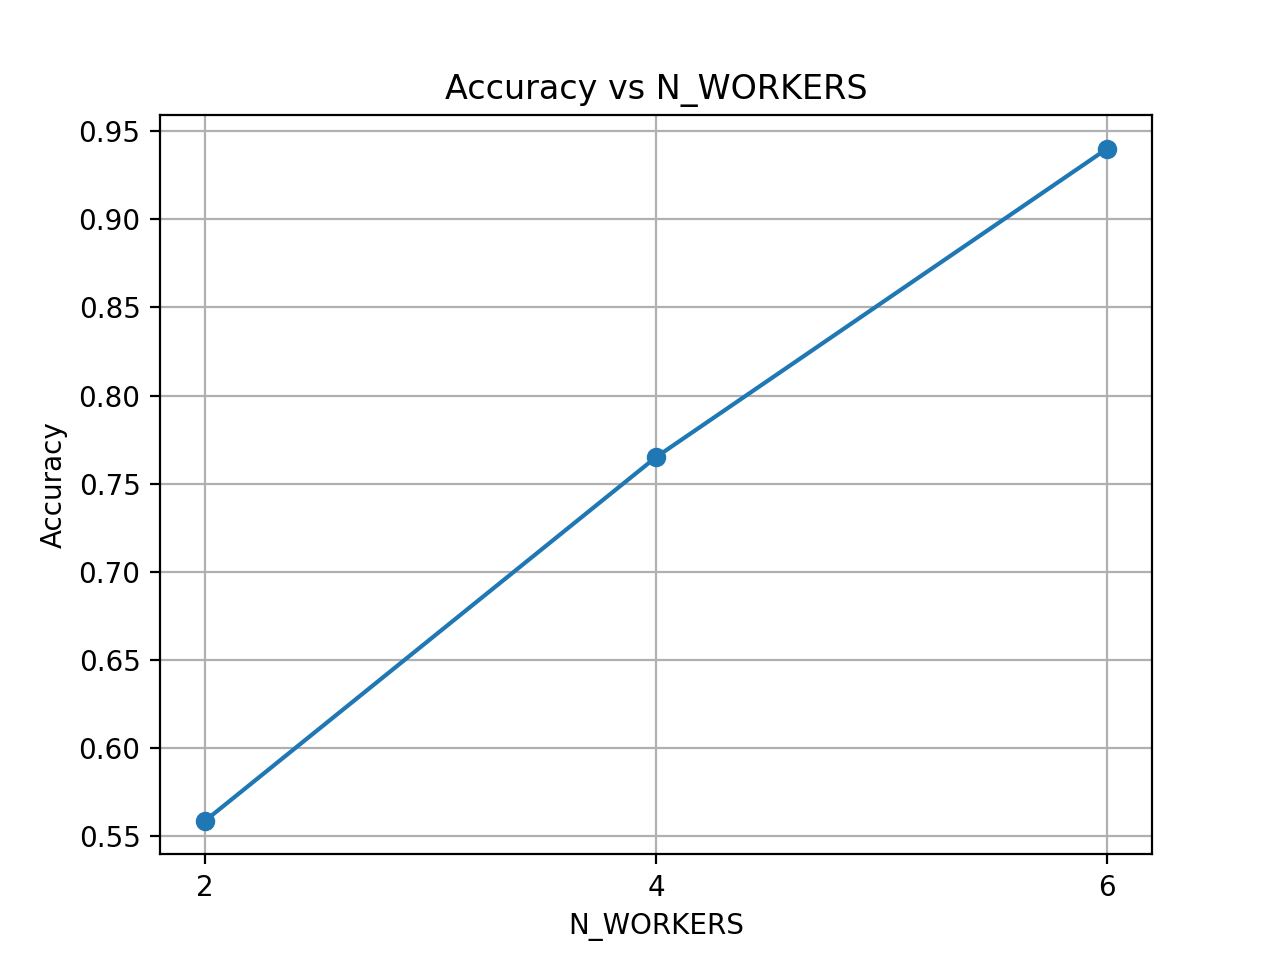
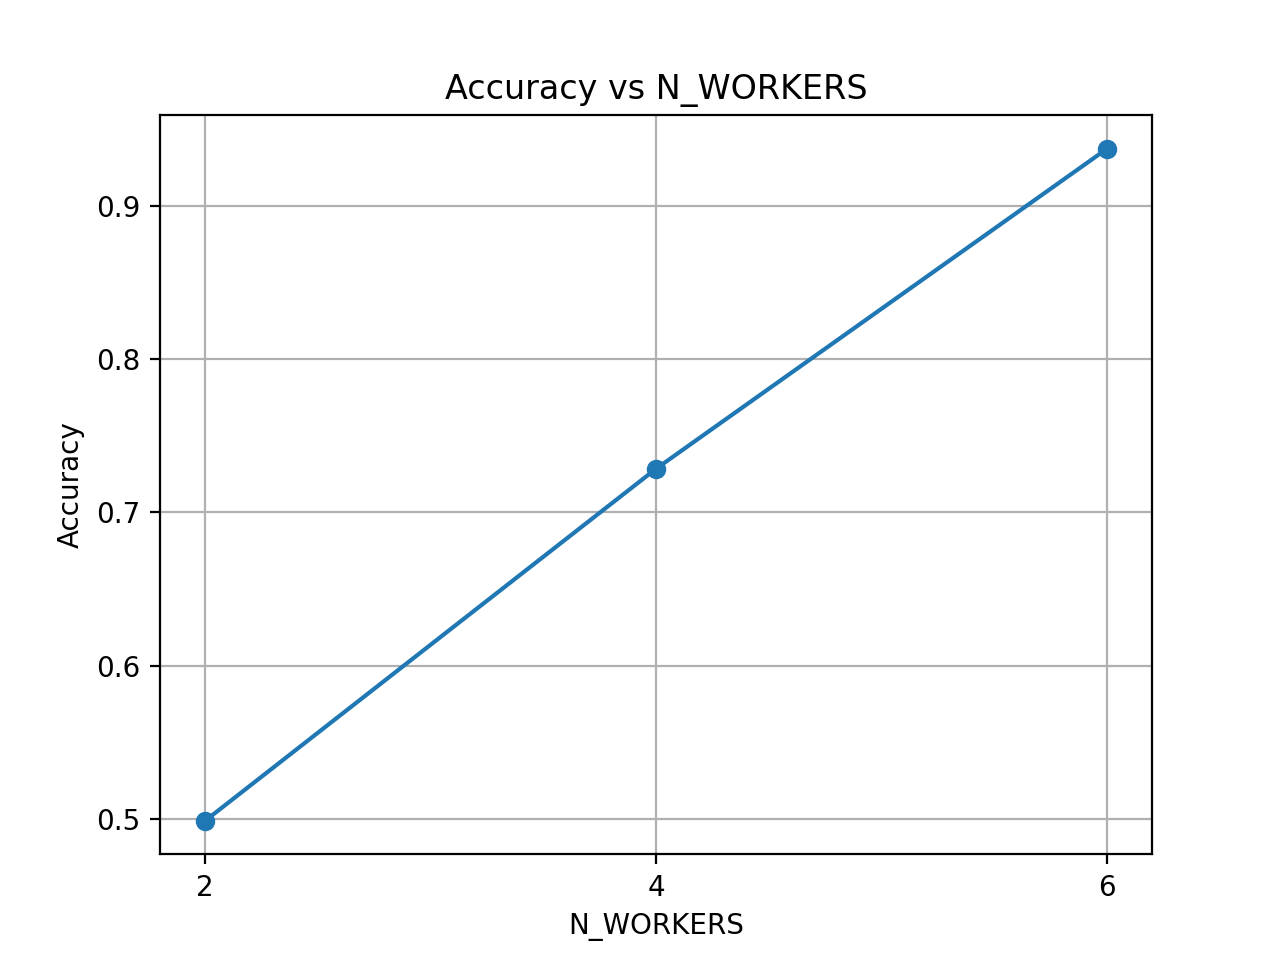
ddd

diff --git a/java/src/main/java/utils/Dl4jModelFactory.java b/java/src/main/java/utils/Dl4jModelFactory.java
@@ -22,7 +22,7 @@ public class Dl4jModelFactory {
     public static final int NUM_CLASSES = cfg.NUM_CLASSES;
     public static final int NEURAL_OUTPUT = cfg.NEURAL_OUTPUT;
 
-	public static final boolean printModel = true;
+	public static final boolean printModel = false;
 
 	public static MultiLayerNetwork createModel() {
 		// System.out.println("DATASET: " + DATASET);
@@ -37,7 +37,7 @@ public class Dl4jModelFactory {
 			// return createMNISTModel();
 			return createMNISTCnn();
 				
-		} else if ("mnist4".equals(DATASET)) {
+		} else if ("mnist4".equals(DATASET)) {	// Forward pass cost: CPU => 200ms / GPU => 30ms  
 			// return createMNISTModel();
 			// return createMNIST4Cnn();	// 70ms forward pass
 			// return createMNIST4Cnn_Simple();	// 25ms forward pass on average
@@ -64,7 +64,7 @@ public class Dl4jModelFactory {
 			return createHarModel();
 
 		} else if ("pendigits".equals(DATASET) || "pendigits-half".equals(DATASET)) {
-			return createPendigitsModel();
+			return createPendigitsModel();	// forward pass cost: CPU = 10ms / GPU = 3ms
 
 		} else if ("winequality".equals(DATASET)) {
 			return createWineQualityModel();
@@ -448,7 +448,7 @@ public class Dl4jModelFactory {
 	public static MultiLayerNetwork createMNIST4Cnn_New() {
 
 		if (printModel) {
-			System.out.println("Using MNIST4 CNN (Keras-style: 32/64/64 + Flatten + Dense)");
+			System.out.println("Using MNIST4 CNN");
 		}
 
 		int numClasses = NUM_CLASSES;   // MNIST4 => 4, MNIST => 10
@@ -517,7 +517,7 @@ public class Dl4jModelFactory {
 	public static MultiLayerNetwork createMNIST4Cnn_New_Simpler() {
 
 		if (printModel) {
-			System.out.println("Using MNIST4 CNN (Keras-style: 32/64/64 + Flatten + Dense)");
+			System.out.println("Using MNIST4 CNN");
 		}
 
 		int numClasses = NUM_CLASSES;   // MNIST4 => 4, MNIST => 10

diff --git a/ReadMe.md b/ReadMe.md
@@ -157,6 +157,7 @@ If N_WORKERS > N_PARTITIONS, then #(N_WORKERS - N_PARTITIONS) workers will remai
  - Exchange pBest / gBest Weight Messages through Kafka Topics
 
 ## =================================================================================================================================
+## =================================================================================================================================
 ## Kafka Message Documentation:
 
 Input pBest-weights-topic:
@@ -419,7 +420,7 @@ def run_bank():
         - Essentially the points in order form the pen trajectory
 
 
-### Pendigits-HALF: =========================================================
+### Pendigits-HALF: ===============================================================================================
 
     - Load into Kafka with:
         - from file my-pendigits.tra, which after being class filtered, get 10992 samples
@@ -438,12 +439,16 @@ def run_bank():
         - If you plotted those points and connected them in order, you’d get a rough sketch of the digit as written.
         - Essentially the points in order form the pen trajectory
 
-### MNIST: =========================================================
+    - // forward pass cost: CPU = 10ms / GPU = 3ms
+
+### MNIST: ==========================================================================================================================
 
     - Grayscale images, very simple image dataset (means (28×28×1).)
         - When flattend there are only 784 features
         
     - Doesnt need a convolutional neural network, because digits are always centered and a pattern will always be at the same location
+
+    - Forward pass cost: CPU => 200ms / GPU => 30ms  
 
 ### CIRAR10: ===================================================================================================
 
@@ -507,7 +512,23 @@ def run_bank():
             - number of physical cores: Core(s) per socket: 6
             - number of threads on its core: Thread(s) per core: 2
 
-    - GPU:
+    - ## GPU: ================================================================================
+
+        The GPU is capable of executing CNN forward pass faster than the CPU. 
+        GPU is only used for DL4J stuff (wherever we are handling DL4J):
+            - INDArray probs = model.output(X, false);      # Primary use of the GPU, forward passes => convolutions, matrix multiplications
+            [CPU parsing + copying]
+            [CPU → GPU transfer] (Copies data from CPU RAM → GPU VRAM, this is a memory transfer)
+            [GPU forward pass]
+            [GPU → CPU sync]     (Pull data back to CPU, synchronizing on every batch)                  
+            [CPU loss + accuracy loops]  
+
+        But GPU is limited, it will only help in neural net compute.
+            - No contribution for serialization / Kafka messages
+            - This means me may be able to afford bigger models or batches, but the primary bottleneck will still be Kafka / CPU Scheduling
+            - CUDA just does faster tensor math, convolutions, matrix multiplications
+        GPU gets more benefit from increased batch size
+        
         - nvidia-smi -l 1
         - <code>nvidia-smi -q</code>  // see gpu specs
         
@@ -525,3 +546,4 @@ ps -eo pid,ppid,cmd,%mem,%cpu --sort=-%mem | head -n 25   # detect them
 sudo pkill -2 java
 sudo pkill -9 -f java
 ```
+

diff --git a/scripts/linux_notes.md b/scripts/linux_notes.md
@@ -24,15 +24,17 @@
 
  - sudo apt install mesa-utils
 
-# Vscode: ====================================================================================
+# Misc Commands: ======================================================================================
+
+ - gsettings set org.gnome.desktop.notifications show-banners false		# disable all notifications
+
+# Vscode: =============================================================================================
 
  - Extensions:
 	- Docker Python Java Github 
  - Settings:
 	- Ctrl + Shift + P / Preferences: Open Keyboard Shortcuts:
 		- go back: Alt + Left
-
-
 
 sudo apt install gnome-shell-extension-manager
  - extension: Hide TopBar
